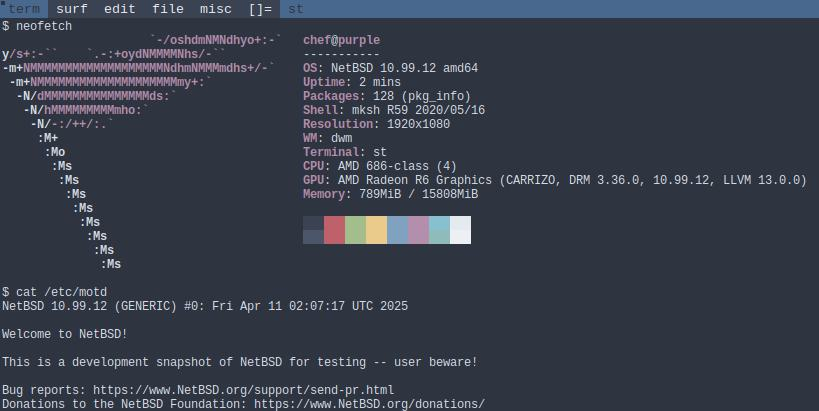
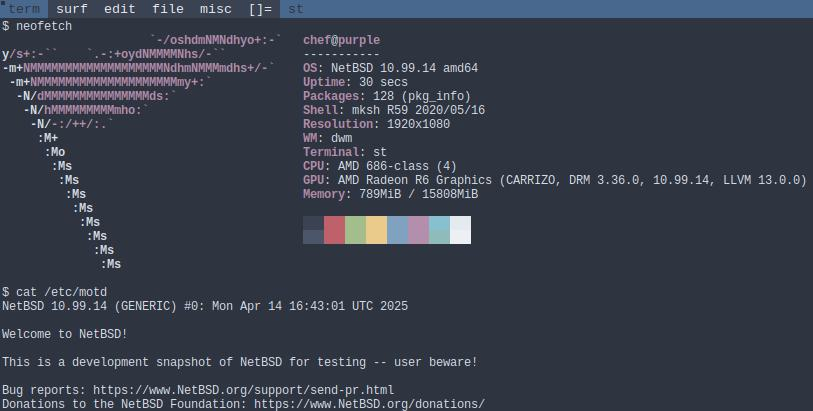
adds and tweaks

diff --git a/README.md b/README.md
@@ -1,4 +1,4 @@
-NetBSD purple 10.99.12 NetBSD 10.99.12 (GENERIC)
+NetBSD purple 10.99.14 NetBSD 10.99.14 (GENERIC)
 
 
 
